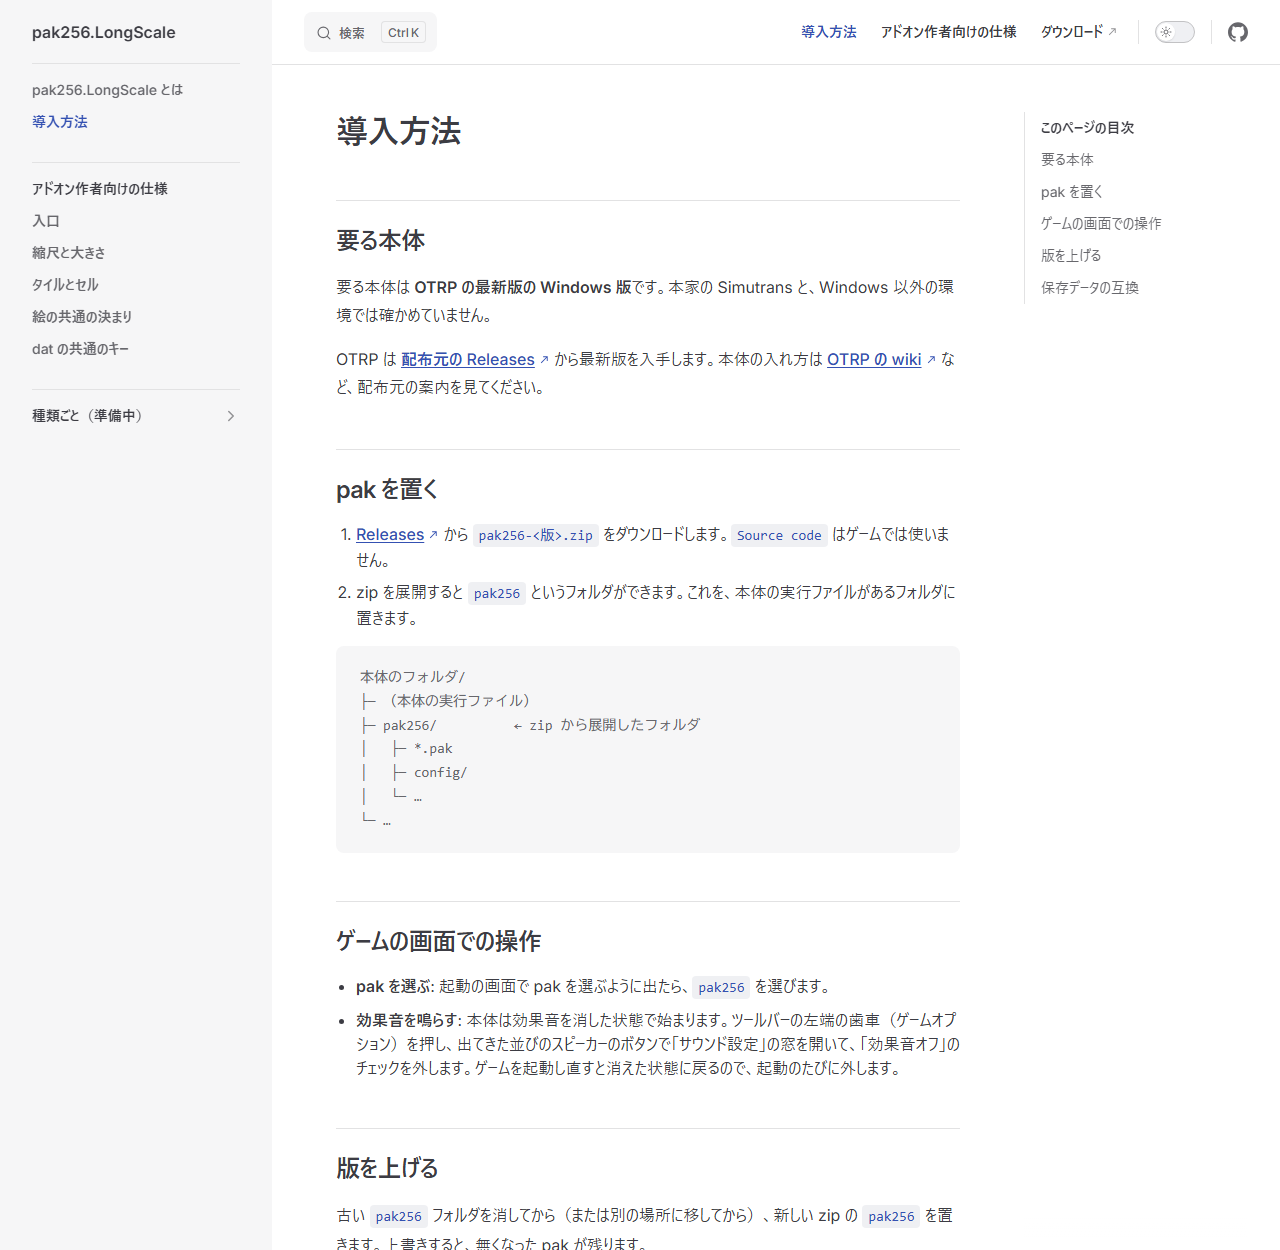
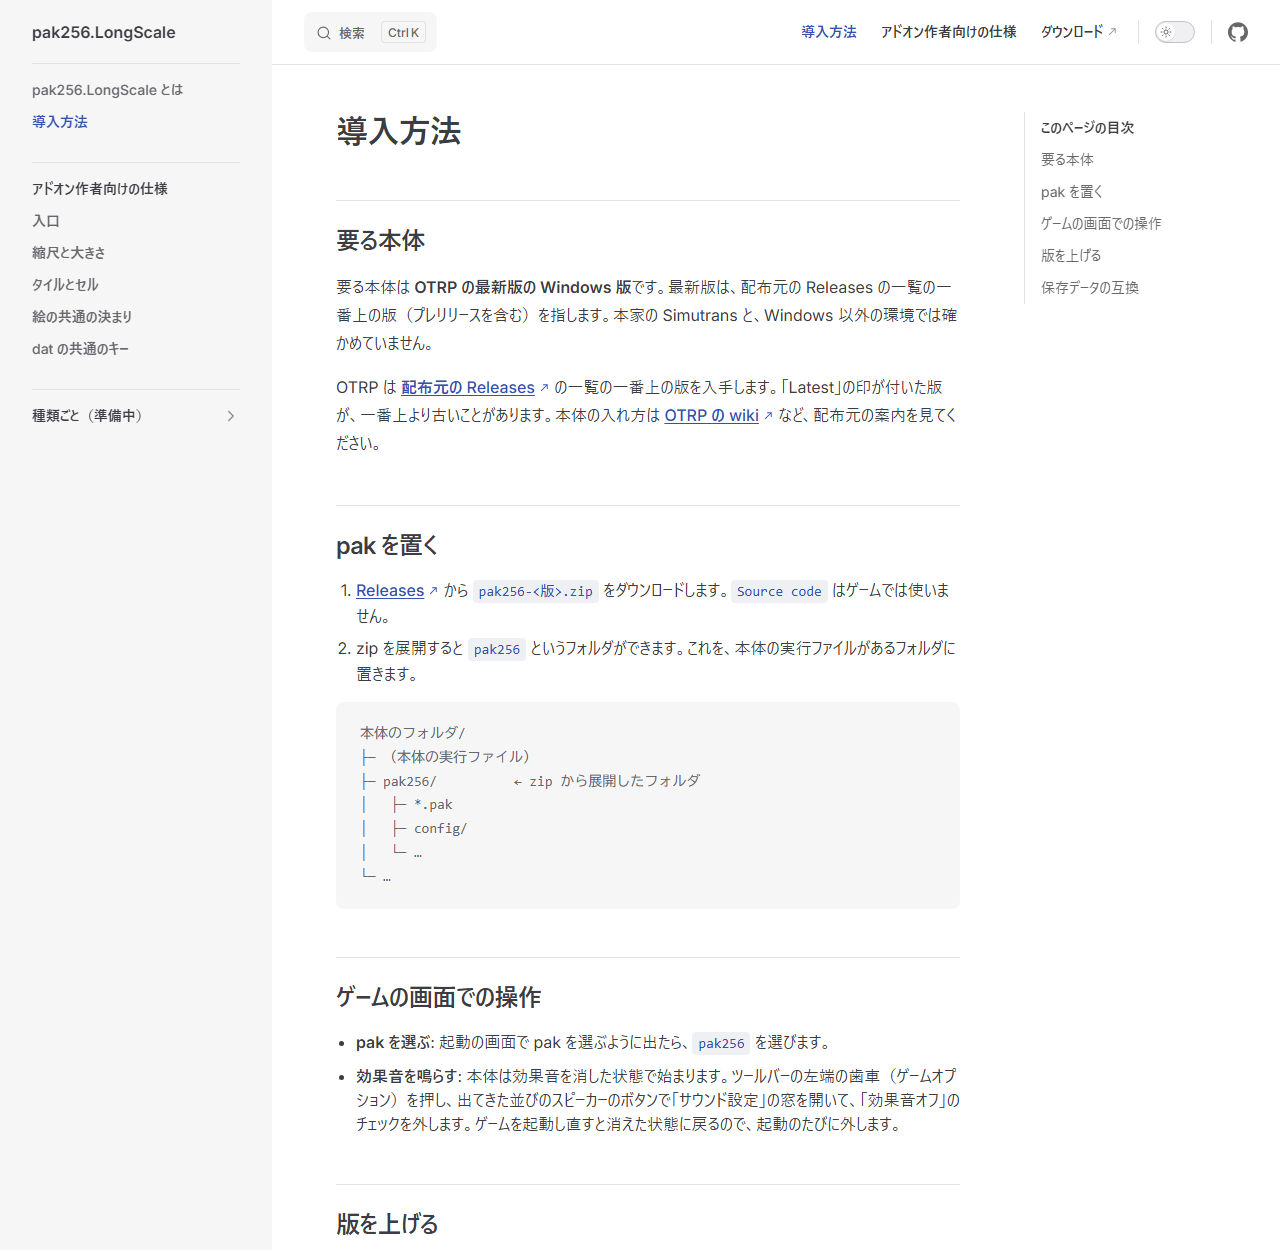
OTRP の最新版が指す版を書き添え、仕様の入口もそろえる (#214)

diff --git a/docs/layout.md b/docs/layout.md
@@ -199,6 +199,7 @@ CI は `.github/workflows/ci.yml`。文書の検査（docs-lint）は別の `.gi
 - `docs/` と分けて置く。`docs/` はリポジトリで作業する人の文書と記録（画像が多い `docs/records/` はサイトに載せない）で、docs-lint は `docs/` で `index.md` を禁じるが、サイトのトップは `index.md` が要る。
 - `.github/workflows/site.yml` が、PR で組めることを確かめ、main への push で公開する。公開には、リポジトリの設定の Pages の Source が「GitHub Actions」である必要がある。
 - 手元で見るときは `site/` で `npm ci` の後に `npm run dev`。切れた内部リンクは `npm run build` が失敗にする（docs-lint は `site/` を検査しない）。
+- 本文で `#RRGGBB` をコードとして書くと、前に色の見本の四角が付く（`site/.vitepress/color-chips.ts`）。
 - 版を公開したら、`site/index.md` の「今の版と状態」の版の名前と日付を直す。
 - **アドオン作者向けの仕様は `site/spec/` に置く**（#177）。同じ決まりを `docs/` に重ねて書かず、`docs/` はサイトへリンクする。`docs/` に残すのは、この pak の物の値の表（検査が読む）と、開発の手順。
 - 寸法の図は `site/figures/draw_spec_figures.py` で描き直す（Pillow と日本語の書体が要る。出力 `site/public/spec/` はコミットする）。画面の写真（`scale-road.png`・`scale-rail.png`）は [記録](records/2026-11-27_spec-common.md)。

diff --git a/site/install.md b/site/install.md
@@ -2,9 +2,9 @@
 
 ## 要る本体
 
-要る本体は **OTRP の最新版の Windows 版**です。本家の Simutrans と、Windows 以外の環境では確かめていません。
+要る本体は **OTRP の最新版の Windows 版**です。最新版は、配布元の Releases の一覧の一番上の版（プレリリースを含む）を指します。本家の Simutrans と、Windows 以外の環境では確かめていません。
 
-OTRP は [配布元の Releases](https://github.com/teamhimeh/simutrans/releases) から最新版を入手します。本体の入れ方は [OTRP の wiki](https://github.com/teamhimeh/simutrans/wiki/OTRP-Home) など、配布元の案内を見てください。
+OTRP は [配布元の Releases](https://github.com/teamhimeh/simutrans/releases) の一覧の一番上の版を入手します。「Latest」の印が付いた版が、一番上より古いことがあります。本体の入れ方は [OTRP の wiki](https://github.com/teamhimeh/simutrans/wiki/OTRP-Home) など、配布元の案内を見てください。
 
 ## pak を置く
 

diff --git a/site/spec/index.md b/site/spec/index.md
@@ -8,7 +8,7 @@ pak256.LongScale は α 版で、仕様は変わることがあります。
 
 | 項目 | 内容 |
 |---|---|
-| 本体 | OTRP v64（Windows 版）で確かめています。本家の Simutrans では確かめていません |
+| 本体 | OTRP の最新版（[配布元の Releases](https://github.com/teamhimeh/simutrans/releases) の一覧の一番上の版。プレリリースを含む）の Windows 版で確かめています。本家の Simutrans では確かめていません |
 | makeobj | 60.12（本家 125.0 に付く版） |
 
 ## 読む順
